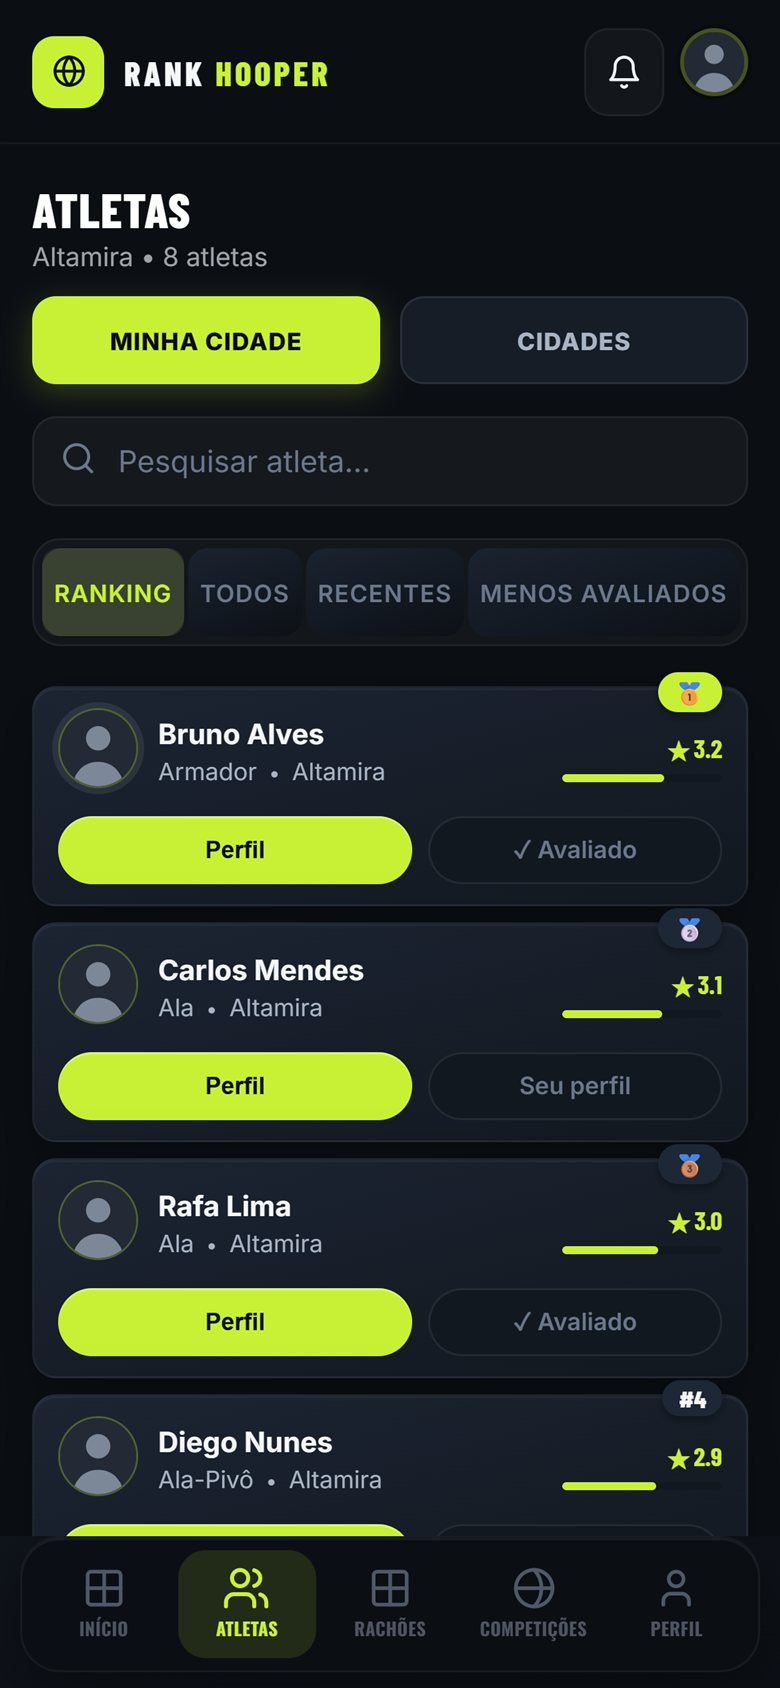
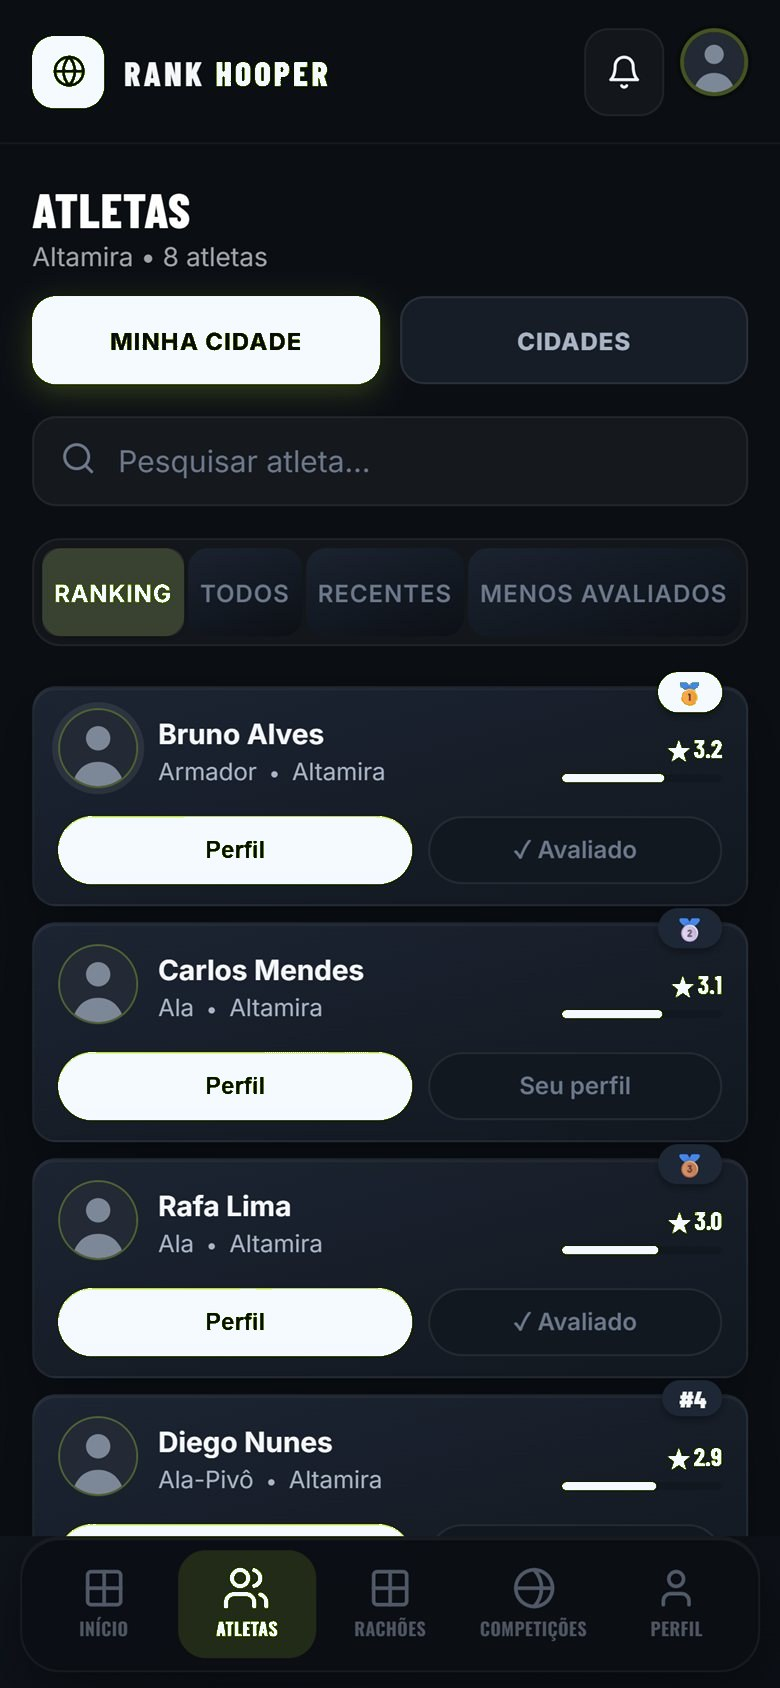
site: prints recoloridos ao visual do app + QR code de acesso

diff --git a/index.html b/index.html
@@ -210,6 +210,36 @@
       text-align: center;
       color: var(--muted); font-size: 12px;
     }
+
+    .qr-block {
+      display: flex; flex-direction: column; align-items: center; gap: 10px;
+      margin: 28px auto 0; max-width: 220px;
+    }
+    .qr-block img {
+      width: 168px; height: 168px;
+      border-radius: 16px;
+      background: #fff;
+      padding: 10px;
+      border: 1px solid var(--line);
+      box-shadow: 0 12px 32px rgba(0, 8, 24, 0.35);
+    }
+    .qr-block p {
+      font-size: 12px; color: var(--muted); text-align: center; line-height: 1.4;
+      margin: 0;
+    }
+    .cta-qr {
+      display: flex; flex-wrap: wrap; align-items: center; justify-content: center;
+      gap: 28px; margin-top: 8px;
+    }
+    .cta-qr img {
+      width: 140px; height: 140px;
+      border-radius: 14px; background: #fff; padding: 8px;
+      border: 1px solid var(--line);
+    }
+    @media (max-width: 640px) {
+      .qr-block img { width: 148px; height: 148px; }
+    }
+
     footer a { color: var(--secondary); text-decoration: none; font-weight: 600; }
 
     @media (max-width: 560px) {
@@ -491,6 +521,10 @@
             Ver por dentro
           </a>
         </div>
+        <div class="qr-block">
+          <img src="img/qr-app.png" width="168" height="168" alt="QR Code para abrir o Rank Hooper no celular" />
+          <p>Aponte a câmera do celular<br />para abrir o app</p>
+        </div>
       </div>
     </div>
 
@@ -726,12 +760,20 @@
         <svg class="hoop-cta bounce" width="72" height="72" viewBox="0 0 24 24" fill="none" stroke="#FFFFFF" stroke-width="1.6" stroke-linecap="round" aria-hidden="true"><circle cx="12" cy="12" r="9" class="ball-spin"/><path d="M3 12h18M12 3v18M5.6 5.6c3.6 3.6 3.6 9.2 0 12.8M18.4 5.6c-3.6 3.6-3.6 9.2 0 12.8"/></svg>
         <h2>Pronto para entrar?</h2>
         <p>Abra o Rank Hooper no navegador do celular ou no app instalado. É o mesmo sistema.</p>
-        <a class="btn btn-primary" href="https://bask-rank-hooper.vercel.app" target="_blank" rel="noopener">
-          Ir para o aplicativo →
-        </a>
-        <p style="margin-top:16px;font-size:12px;color:var(--muted)">
-          App: <a href="https://bask-rank-hooper.vercel.app" target="_blank" rel="noopener">bask-rank-hooper.vercel.app</a>
-        </p>
+        <div class="cta-qr">
+          <div>
+            <a class="btn btn-primary" href="https://bask-rank-hooper.vercel.app" target="_blank" rel="noopener">
+              Ir para o aplicativo →
+            </a>
+            <p style="margin-top:16px;font-size:12px;color:var(--muted)">
+              App: <a href="https://bask-rank-hooper.vercel.app" target="_blank" rel="noopener">bask-rank-hooper.vercel.app</a>
+            </p>
+          </div>
+          <div class="qr-block" style="margin:0">
+            <img src="img/qr-app.png" width="140" height="140" alt="QR Code Rank Hooper" />
+            <p>Escaneie e entre direto</p>
+          </div>
+        </div>
       </div>
     </div>
   </main>
